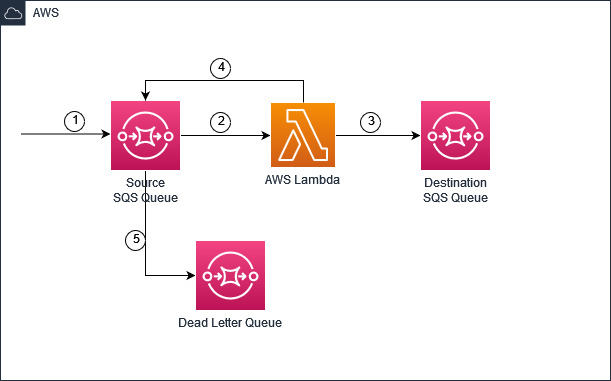
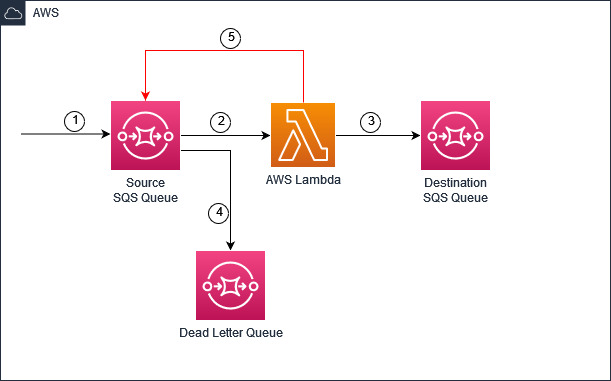
updated README

diff --git a/README.md b/README.md
@@ -8,19 +8,19 @@ The sample application is a simple order processing app with following architect
 ![Sample Application Architecture](images/RecursionBlog.jpg)
 
 
-1. Order is sent to a Source SQS queue
-2. The message is processed by Lambda function from source queue using the Event Source Mapping
-3. The Lambda function sends updated order to the destination SQS queue via SQS SendMessage API calls.
-4. Updated order is sent to the Source SQS queue due to mis-configuration instead of the destination queue.
-5. Lambda service detects the recursion and stops invoking the lambda function after 16 tries. The message is delivered to the dead letter queue as per the redrive policy configuration.
+1. A new order information message is sent to the source SQS queue.
+2. This message is consumed by a Lambda function from the source queue using the Event Source Mapping
+3. The Lambda function processes the message and sends the updated orders message to the destination SQS queue using SQS SendMessage API.
+4. A Dead Letter Queue(DLQ) is configured for handling any failed or unprocessed messages. 
+5. Because of a mis-configuration, the Lambda function sends the message to the source SQS queue instead of the destination queue. This will cause an unintended recursive loop of Lambda function executions. 
 
 ### Deployment
 
 #### Pre-requisites
 1. AWS Account
-2. Java 11
-3. Maven
+2. [AWS CLI](https://docs.aws.amazon.com/cli/latest/userguide/getting-started-install.html)
 3. AWS [SAM CLI](https://docs.aws.amazon.com/serverless-application-model/latest/developerguide/install-sam-cli.html) v1.82.0
+4. [Docker](https://docs.aws.amazon.com/serverless-application-model/latest/developerguide/install-docker.html#install-docker-instructions)
 
 #### CLI Commands
 
@@ -30,11 +30,11 @@ The sample application is a simple order processing app with following architect
 
 2.	Use the AWS SAM CLI to build the application
 
-    $ sam build
+    $ sam build --use-container
 
 3.	Use the AWS SAM CLI to deploy the resources to your AWS account.
 
-    $ sam deploy -g
+    $ sam deploy --guided
 
 This will deploy your Lambda function with source and target SQS queues.
 
@@ -42,7 +42,7 @@ Please note down the Source SQS Queue URL after deployment
 
 ### Test
 
-	$ aws sqs send-message --queue-url <SOURCE_SQS_URL> --message-body {\"orderId\":"1",\"productName\":\"Bolt\",\"orderStatus\":\"Submitted\"}
+	$ aws sqs send-message --queue-url <SOURCE_SQS_URL> --message-body '{\"orderId\":"1",\"productName\":\"Bolt\",\"orderStatus\":\"Submitted\"}'
 
 ### Cleanup
     $ sam delete
